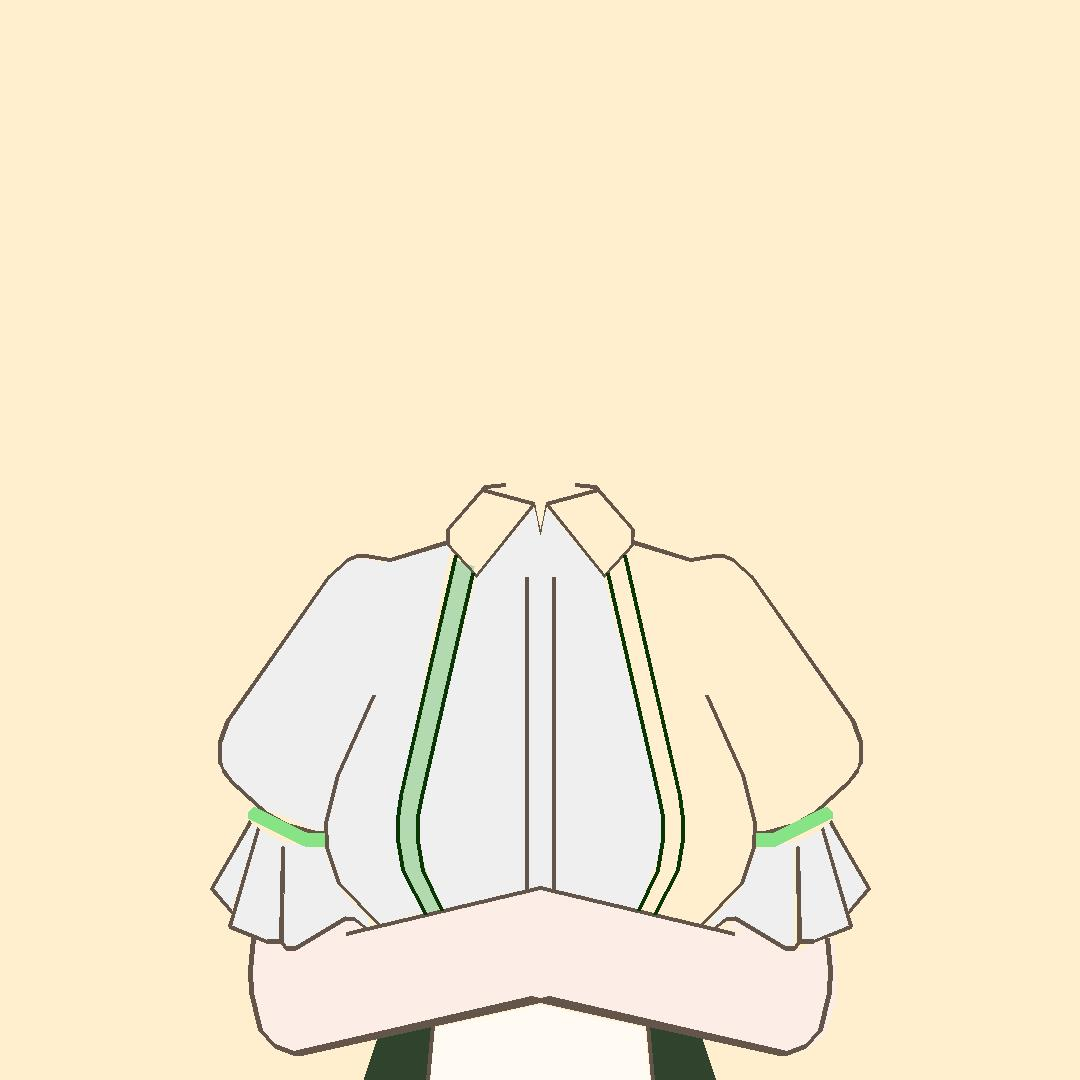
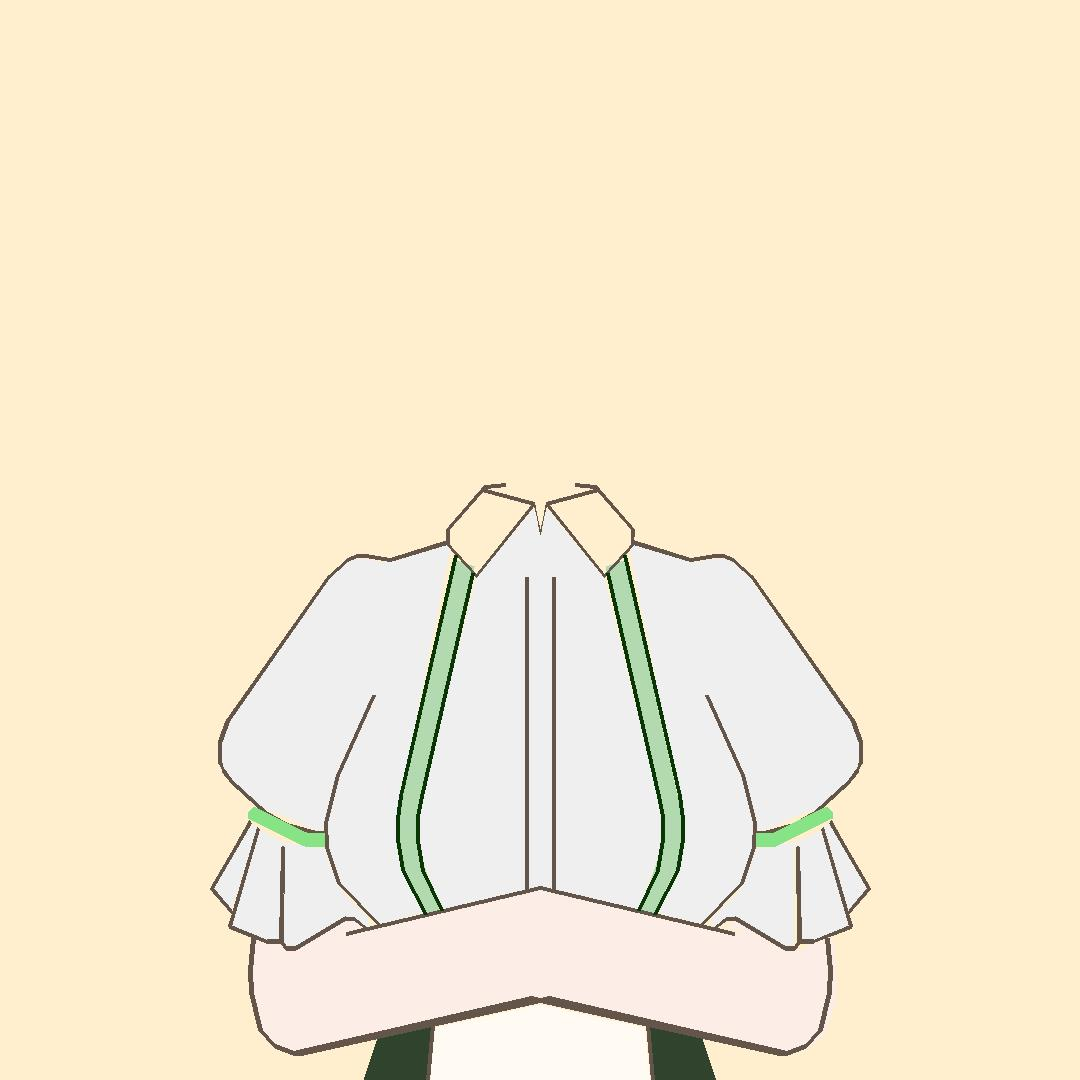
modified:   fill/save.cpp 	modified:   test.jpg 	modified:   fill/save.exe 	test.txt 	tool.js

Changed region(s): [[0.55, 0.4889, 0.7944, 0.8556]]

diff --git a/fill/save.cpp b/fill/save.cpp
@@ -1118,6 +1118,29 @@ void fillShirt_Left(){
     polyfill(polygon03,RGB(179,217,176));
 }
 
+void fillShirt_Right(){
+    Point points01[] = {{757, 830}, {764, 830}, {796, 815}, {816, 809}, {844, 784}, {856, 769}, {858, 760}, {858, 739}, {855, 728}, {853, 724}, {749, 577}, {733, 562}, {726, 559}, {715, 558}, {700, 562}, {640, 545}};
+    Polygon_Point polygon01 = {
+        .point_num = sizeof(points01) / sizeof(Point),//计算顶点数量
+        .points = points01,//设置顶点数组
+    };
+    polyfill(polygon01,RGB(239,239,239));
+
+    Point points02[] = {{640, 545}, {635, 540}, {630, 548}, {676, 778}, {682, 803}, {684, 845}, {681, 862}, {680, 868}, {657, 912}, {699, 923}, {716, 911}, {739, 884}, {749, 859}, {752, 843}, {753, 826}, {747, 794}, {733, 758}};
+    Polygon_Point polygon02 = {
+        .point_num = sizeof(points02) / sizeof(Point),//计算顶点数量
+        .points = points02,//设置顶点数组
+    };
+    polyfill(polygon02,RGB(239,239,239));
+
+    Point points03[] = {{659, 797},{665, 839},{640, 913},{654, 913},{676, 867},{680, 844},{680, 808},{624, 560},{606, 566}};
+    Polygon_Point polygon03 = {
+        .point_num = sizeof(points03) / sizeof(Point),//计算顶点数量
+        .points = points03,//设置顶点数组
+    };
+    polyfill(polygon03,RGB(179,217,176));
+}
+
 void central_Decoration(){
     Point points01[] = {{664,840},{654,780},{604,578},{546,508},{540,538},{534,508},{476,578},{426,780},{416,840},{443,913},{540,890},{637,913}};
     Polygon_Point polygon01 = {
@@ -1131,32 +1154,21 @@ int main(){
     initgraph(1080,1080);
     setbkcolor(RGB(255,239,206));
     cleardevice();
-    // circle(200,200,100);
-    // Point points[] = {{200,200},{500,100},{900,300},{1100,300},{1100,800},{700,600},{500,700},{400,600},{200,650}};
-    //星星
-    // Point points1[] = {{88,173},{88,186},{94,186},{94,178},{109,178},{109,171},{124,171},{124,164},{133,164},{133,171},{148,171},{148,178},{163,178},{163,186},{169,186},{169,174},{161,174},{161,158},{154,158},{154,141},{161,141},{161,134},{169,134},{169,127},{176,127},{176,121},{146,121},{146,113},{139,113},{139,98},{131,98},{131,83},{126,83},{126,98},{118,98},{118,113},{110,113},{110,120},{80,120},{80,126},{88,126},{88,133},{95,133},{95,141},{102,141},{102,158},{95,158},{95,173}};
-    // Polygon_Point polygon1 = {
-    //     .point_num = sizeof(points1) / sizeof(Point),//计算顶点数量
-    //     .points = points1,//设置顶点数组
-    // };
-    // polyfill(polygon1,RED);
-
-    //三角形
-    Point points[] = {{200,200},{200,300},{250,250}};
-    // polygon((POINT*)points,3);
 
     // Point points[] = {{}};
     //C99结构体初始化语法
-    Polygon_Point polygon = {
-        .point_num = sizeof(points) / sizeof(Point),//计算顶点数量
-        .points = points,//设置顶点数组
-    };
+    // Polygon_Point polygon = {
+    //     .point_num = sizeof(points) / sizeof(Point),//计算顶点数量
+    //     .points = points,//设置顶点数组
+    // };
+    
     // displayPolygon(polygon);
     // polyfill(polygon,0xFF55FF);
     // polyfill(polygon,RGB(250,212,223));
 
     central_Decoration();
     fillShirt_Left();
+    fillShirt_Right();
     fillDress();
     fillArm();
     fillShirtLace_Left();
